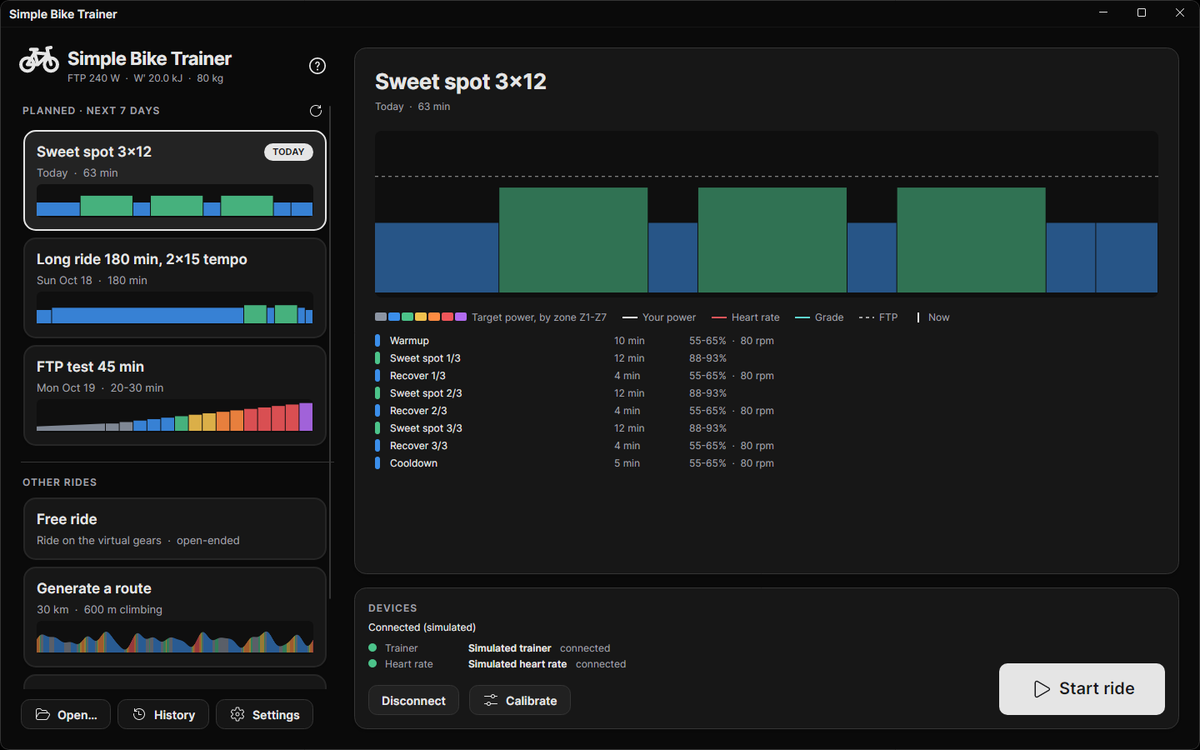
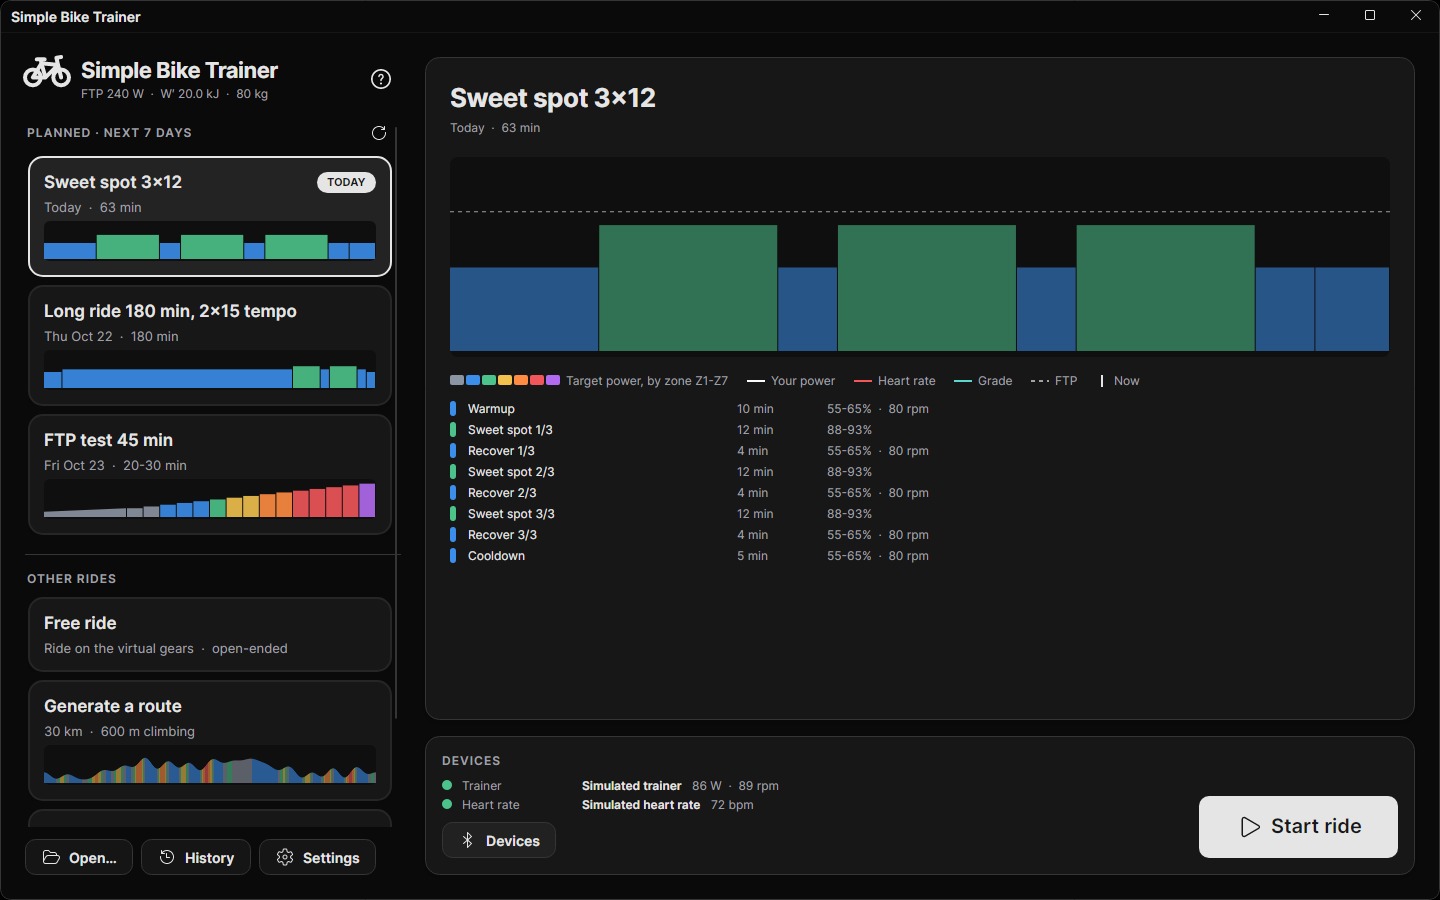
update screenshots

diff --git a/tests/SimpleBikeTrainer.Desktop.Tests/DesktopTests.cs b/tests/SimpleBikeTrainer.Desktop.Tests/DesktopTests.cs
@@ -143,6 +143,7 @@ public sealed class DesktopTests(HeadlessSession headless) : IDisposable
             link.Opened.Single().Beat(72);
             paired.Live!.Refresh();
             Assert.Equal("72 bpm", paired.Live.Detail);
+            await ShootBoth(window, "0-devices");
 
             // A strap that will not answer is not saved, and the page says what to try.
             link.Fails.Add(DeviceId.AntPlus(12345));
@@ -151,7 +152,6 @@ public sealed class DesktopTests(HeadlessSession headless) : IDisposable
             Assert.Contains("HRM-Dual (ANT+ 12345) did not connect", main.Devices.Status, StringComparison.Ordinal);
             Assert.Equal(DeviceId.Bluetooth("E1:22:33:44:55:66"), AppConfig.Load(config.Path).Devices.HeartRate);
             Assert.True(link.Opened[^1].Disposed);
-            await ShootBoth(window, "0-devices");
 
             // Save goes back home and stops the scan; the strap stays connected until it is forgotten.
             pairing.SaveCommand.Execute(null);

diff --git a/README.md b/README.md
@@ -5,10 +5,14 @@ Simple Bike Trainer rides Intervals.icu workouts on a Wahoo KICKR or any other B
 | | Light | Dark |
 | --- | --- | --- |
 | Home | ![Home, light](docs/screenshots/home-light.png) | ![Home, dark](docs/screenshots/home-dark.png) |
+| Route | ![Route, light](docs/screenshots/route-light.png) | ![Route, dark](docs/screenshots/route-dark.png) |
+| Devices | ![Devices, light](docs/screenshots/devices-light.png) | ![Devices, dark](docs/screenshots/devices-dark.png) |
 | Ride | ![Ride, light](docs/screenshots/ride-light.png) | ![Ride, dark](docs/screenshots/ride-dark.png) |
+| Help | ![Help, light](docs/screenshots/help-light.png) | ![Help, dark](docs/screenshots/help-dark.png) |
 | Summary | ![Summary, light](docs/screenshots/summary-light.png) | ![Summary, dark](docs/screenshots/summary-dark.png) |
 | History | ![History, light](docs/screenshots/history-light.png) | ![History, dark](docs/screenshots/history-dark.png) |
 | Settings | ![Settings, light](docs/screenshots/settings-light.png) | ![Settings, dark](docs/screenshots/settings-dark.png) |
+| Calibration | ![Calibration, light](docs/screenshots/calibrate-light.png) | ![Calibration, dark](docs/screenshots/calibrate-dark.png) |
 
 ## Install
 
